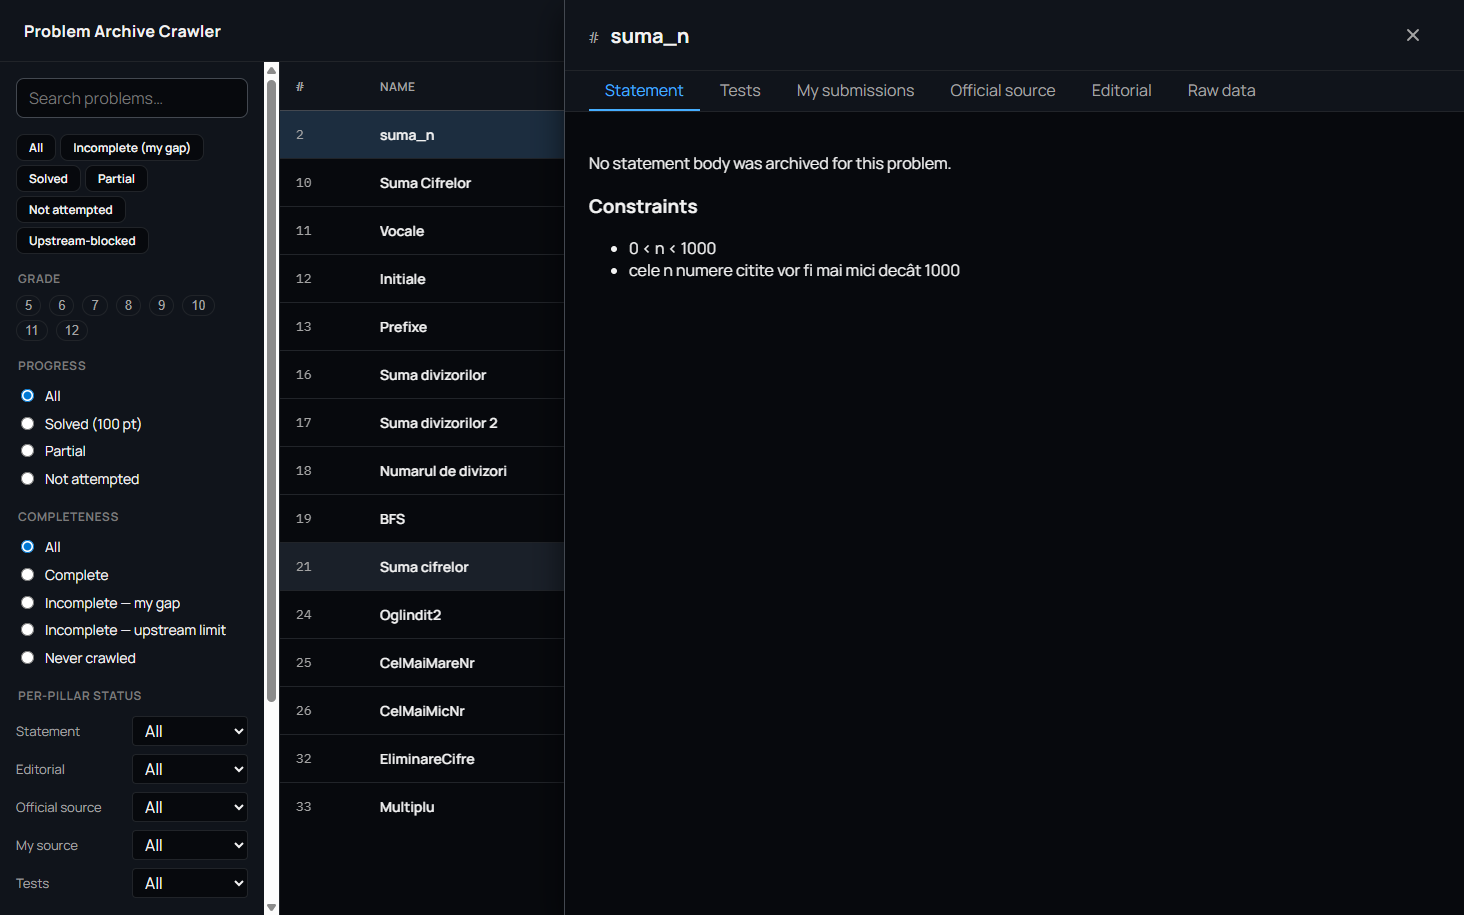
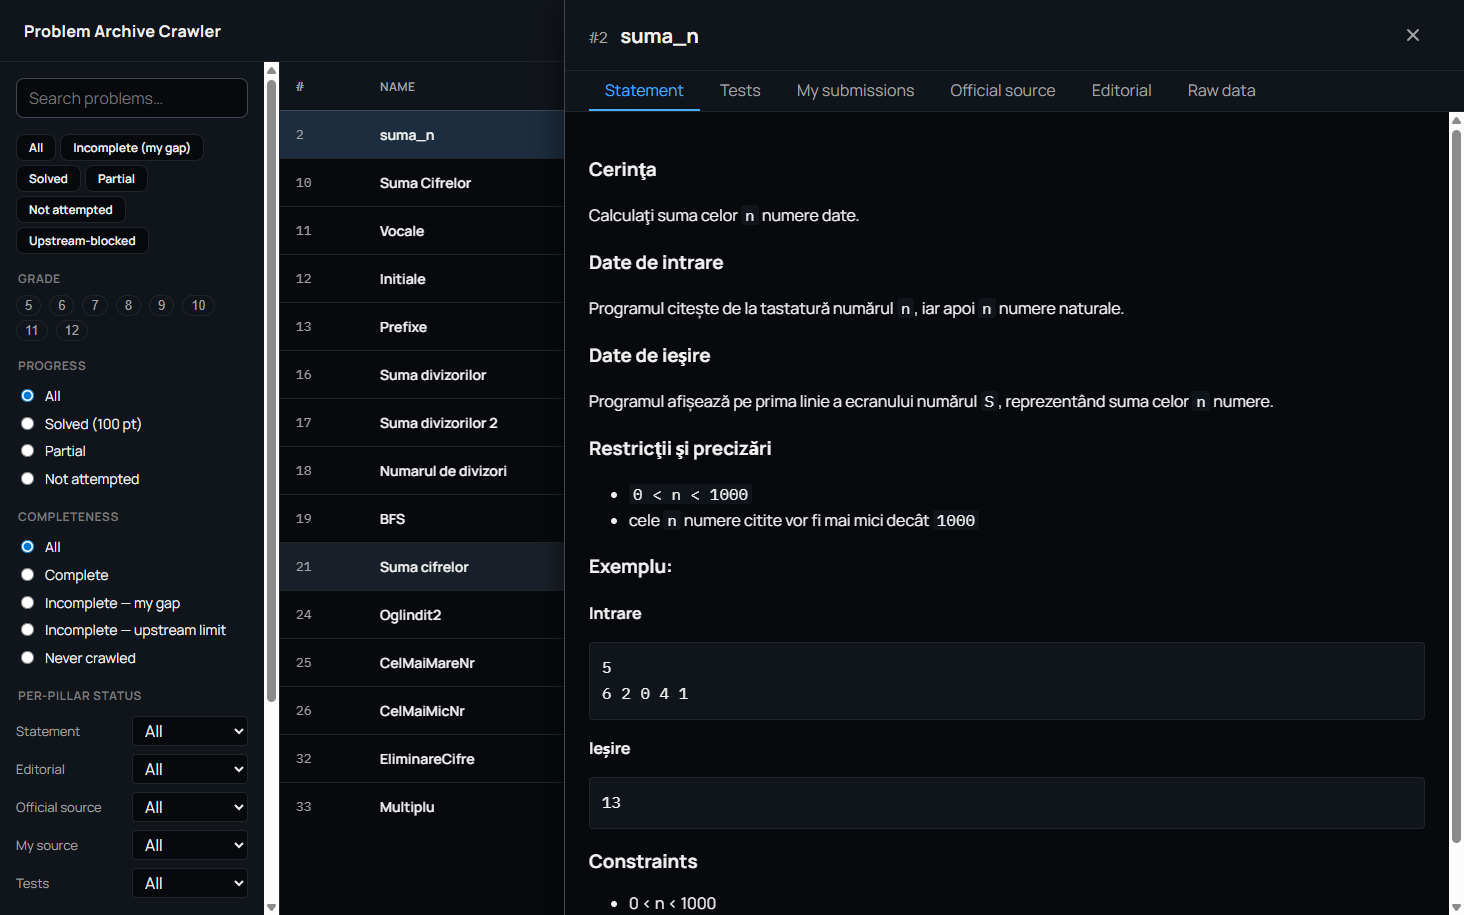
fix(gui): render real statement/tests/editorial from actual archive shape
Iteration 8 screenshot probe walked through every drawer tab and found
four more real-archive mismatches the unit tests missed. Each would have
hit the user on first use.

1) Statement tab was showing "No statement body was archived for this
   problem" for every problem because problem JSONs use `sections[]`
   (array of {title, html, text} blocks), not a single `statementHtml`
   string. New composeStatementHtml() concatenates sections[] into a
   single sanitized HTML body. The Romanian statement now renders
   correctly with all 5 sections (Cerinţa, Date de intrare/ieşire,
   Restricţii, Exemplu) and the <code> highlighting survives.

2) Tests tab was showing empty input/expected blocks because
   tests.json uses {index, provenanceKinds, label, input, output} but
   my loader expected {id, kind, inputBody, expectedBody}. Added
   normalizeTestCase() that accepts both shapes. "5\n6 2 0 4 1" → "13"
   now shows as the real example for suma_n.

3) Submissions tab was showing no verdict text because the real
   evaluation JSON uses `verdictSummary` ("100 puncte", "Eroare de
   compilare"), not `verdict`. Loader falls back to verdictSummary when
   verdict is absent. All 7 of suma_n's evaluations now show proper
   verdicts.

4) Editorial tab was showing an empty banner box when availability
   was 'visible' but the raw-pages/*.html artifact wasn't on disk (raw
   pages are often stripped from normalized snapshots to keep size
[…]

diff --git a/src/gui/main/library-detail-repository.ts b/src/gui/main/library-detail-repository.ts
@@ -115,23 +115,65 @@ interface CoverageFile {
   readonly userSourceLanguages?: readonly string[];
 }
 
+interface ProblemStatementSection {
+  readonly title?: string;
+  readonly html?: string;
+  readonly text?: string;
+}
+
 interface ProblemFile {
-  readonly problemId: number;
+  // Real archive keys: id, slug, name, sections[], constraints[], examples[]
+  // Older fixtures: problemId, statementHtml
+  readonly id?: number;
+  readonly problemId?: number;
   readonly slug: string;
   readonly name: string;
   readonly statementHtml?: string;
+  readonly sections?: readonly ProblemStatementSection[];
   readonly constraints?: readonly string[];
   readonly executionLimits?: {
     readonly timeSeconds?: number;
     readonly memoryMb?: number;
   };
+  readonly editorial?: {
+    readonly availability?: string;
+    readonly artifactPath?: string;
+  };
+}
+
+function composeStatementHtml(problem: ProblemFile): string | undefined {
+  if (typeof problem.statementHtml === 'string' && problem.statementHtml.length > 0) {
+    return problem.statementHtml;
+  }
+  if (problem.sections && problem.sections.length > 0) {
+    return problem.sections
+      .map((section) => {
+        const title = section.title ? `<h3>${escapeHtml(section.title)}</h3>` : '';
+        const body = section.html ?? (section.text ? `<p>${escapeHtml(section.text)}</p>` : '');
+        return `${title}${body}`;
+      })
+      .join('\n');
+  }
+  return undefined;
+}
+
+function escapeHtml(s: string): string {
+  return s
+    .replace(/&/gu, '&amp;')
+    .replace(/</gu, '&lt;')
+    .replace(/>/gu, '&gt;')
+    .replace(/"/gu, '&quot;')
+    .replace(/'/gu, '&#39;');
 }
 
 interface EvaluationFile {
   readonly evaluationId: number;
   readonly score: number;
   readonly language: string;
+  // Real archive stores verdictSummary (e.g., "100 puncte"); older fixtures
+  // use verdict.
   readonly verdict?: string;
+  readonly verdictSummary?: string;
   readonly submittedAt?: string;
   readonly runtime?: number;
   readonly runtimeSeconds?: number;
@@ -145,8 +187,41 @@ interface SourceFile {
   readonly language?: string;
 }
 
+// Real tests.json shape (see archive/snapshots/.../tests/<id>-<slug>/tests.json):
+// cases[].index, .provenanceKinds, .label, .input, .output. Older fixtures use
+// id, kind, inputBody, expectedBody — accept both.
+interface RawTestCase {
+  readonly id?: string;
+  readonly index?: number;
+  readonly label?: string;
+  readonly kind?: 'example' | 'visible';
+  readonly provenanceKinds?: readonly string[];
+  readonly input?: string;
+  readonly inputBody?: string;
+  readonly output?: string;
+  readonly expectedBody?: string;
+  readonly evaluationVerdicts?: Record<string, string>;
+}
+
 interface TestsFile {
-  readonly cases?: readonly TestCase[];
+  readonly cases?: readonly RawTestCase[];
+}
+
+function normalizeTestCase(raw: RawTestCase): TestCase {
+  const id =
+    raw.id ?? (typeof raw.index === 'number' ? String(raw.index) : 'case');
+  const kind: 'example' | 'visible' =
+    raw.kind ??
+    (raw.provenanceKinds?.includes('example') ? 'example' : 'visible');
+  const inputBody = raw.inputBody ?? raw.input ?? '';
+  const expectedBody = raw.expectedBody ?? raw.output ?? '';
+  return {
+    id,
+    kind,
+    inputBody,
+    expectedBody,
+    evaluationVerdicts: raw.evaluationVerdicts,
+  };
 }
 
 export async function loadProblemDetail(
@@ -176,8 +251,9 @@ export async function loadProblemDetail(
     );
   }
 
-  const statementHtml = problemRaw.statementHtml
-    ? sanitizeArchiveHtml(problemRaw.statementHtml)
+  const rawStatement = composeStatementHtml(problemRaw);
+  const statementHtml = rawStatement
+    ? sanitizeArchiveHtml(rawStatement)
     : undefined;
 
   const evaluations: EvaluationSummary[] = [];
@@ -208,7 +284,7 @@ export async function loadProblemDetail(
       evaluationId: parsed.evaluationId,
       score: parsed.score,
       language: parsed.language,
-      verdict: parsed.verdict,
+      verdict: parsed.verdict ?? parsed.verdictSummary,
       submittedAt: parsed.submittedAt,
       runtime: parsed.runtime ?? parsed.runtimeSeconds,
       memory: parsed.memory ?? parsed.memoryKb,
@@ -271,10 +347,28 @@ export async function loadProblemDetail(
   }
 
   const editorialAvailability = coverage.editorialAvailability ?? 'unknown';
-  const editorialFilePath = findFirstExisting(
-    join(normalizedRoot, 'editorials', `problem-${coverage.problemId}.html`),
-    join(normalizedRoot, 'editorials', `${coverage.problemId}-${coverage.slug}.html`),
-  );
+  // The real archive stores editorial HTML at the path in
+  // problem.editorial.artifactPath (relative to the snapshot root), e.g.,
+  // raw-pages/page-https-www-pbinfo-ro-ajx-module-ajx-problema-afisare-solutie-*.html
+  // Raw pages are frequently excluded from what lands on disk (too large),
+  // so this resolution is best-effort: if the artifact isn't present, the
+  // EditorialTab renders the spec §8.2 banner explaining it needs a refresh.
+  let editorialFilePath: string | undefined;
+  const editorialArtifactPath = problemRaw.editorial?.artifactPath;
+  if (editorialArtifactPath) {
+    const candidate = join(base, editorialArtifactPath);
+    if (existsSync(candidate)) editorialFilePath = candidate;
+  }
+  if (!editorialFilePath) {
+    editorialFilePath = findFirstExisting(
+      join(normalizedRoot, 'editorials', `problem-${coverage.problemId}.html`),
+      join(
+        normalizedRoot,
+        'editorials',
+        `${coverage.problemId}-${coverage.slug}.html`,
+      ),
+    );
+  }
   let editorialHtmlBody: string | undefined;
   if (
     editorialAvailability === 'visible' &&
@@ -301,9 +395,11 @@ export async function loadProblemDetail(
     }
   }
 
+  const resolvedProblemId = problemRaw.problemId ?? problemRaw.id ?? problemId;
+
   return {
     problem: {
-      problemId: problemRaw.problemId,
+      problemId: resolvedProblemId,
       slug: problemRaw.slug,
       name: problemRaw.name,
       statementHtml,
@@ -325,7 +421,7 @@ export async function loadProblemDetail(
     },
     tests: {
       folderPath: testsFolder,
-      cases: testsJson?.cases ?? [],
+      cases: (testsJson?.cases ?? []).map(normalizeTestCase),
     },
     submissions: {
       evaluations,

diff --git a/src/gui/main/index.ts b/src/gui/main/index.ts
@@ -222,6 +222,21 @@ async function maybeWriteDesktopSmokeMarker(
           await new Promise((resolve) => setTimeout(resolve, 1200));
         }
 
+        if (process.env.PBINFO_DESKTOP_TEST_CLICK_TAB) {
+          const tabLabel = process.env.PBINFO_DESKTOP_TEST_CLICK_TAB;
+          await window.webContents.executeJavaScript(
+            `(() => {
+              const tabs = Array.from(document.querySelectorAll('[role="tab"]'));
+              const target = tabs.find(
+                (el) => el.textContent && el.textContent.trim().toLowerCase() === ${JSON.stringify(tabLabel.toLowerCase())},
+              );
+              if (target instanceof HTMLElement) target.click();
+            })()`,
+            true,
+          );
+          await new Promise((resolve) => setTimeout(resolve, 800));
+        }
+
         if (process.env.PBINFO_DESKTOP_TEST_FORCE_THEME) {
           // Call the real theme bridge so the main-process preference store
           // flips AND the renderer subscription re-sets dataset.theme in the

diff --git a/src/gui/renderer/library-shell/tabs/EditorialTab.tsx b/src/gui/renderer/library-shell/tabs/EditorialTab.tsx
@@ -6,6 +6,8 @@ export interface EditorialTabProps {
 }
 
 const BANNERS: Record<string, string> = {
+  visible:
+    "The editorial is marked visible on pbinfo.ro, but the raw HTML page isn't present in this archive snapshot (raw pages are often omitted to keep the archive small). Run Operator → Run full refresh to re-capture it, or open the problem on pbinfo.ro directly.",
   restricted:
     'Editorial is visible to you on pbinfo.ro after your first submission — even an incorrect one.',
   hidden: 'pbinfo.ro has not published an editorial for this problem.',
@@ -24,9 +26,12 @@ export function EditorialTab({ editorial }: EditorialTabProps) {
       </section>
     );
   }
+  const bannerText =
+    BANNERS[editorial.availability] ??
+    `Editorial availability: ${editorial.availability}.`;
   return (
     <section className="editorial-tab">
-      <p className="pac-banner">{BANNERS[editorial.availability]}</p>
+      <p className="pac-banner">{bannerText}</p>
     </section>
   );
 }